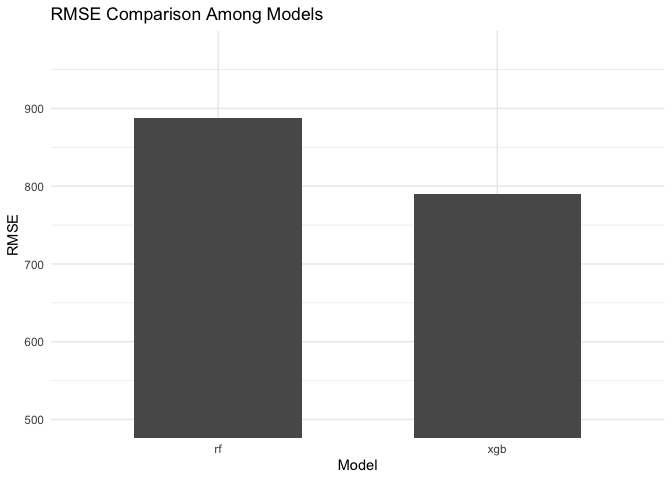
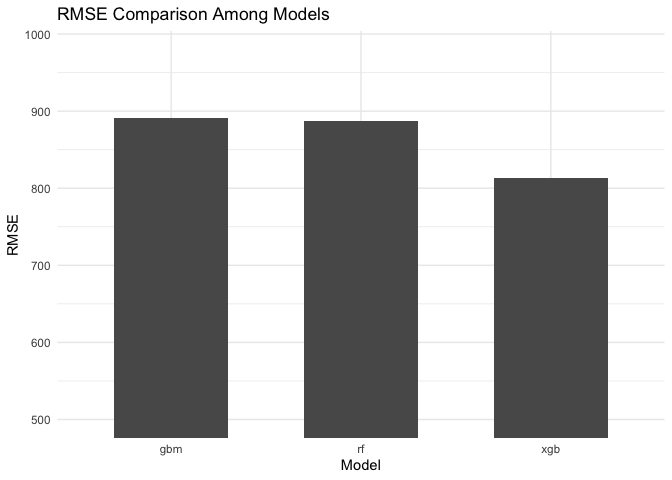
updated md

diff --git a/excersises03.md b/excersises03.md
@@ -139,16 +139,16 @@ k/lambda. We then calculate RSME for each model:
 <figcaption aria-hidden="true">Table 4</figcaption>
 </figure>
 
-We see that, unsurprisingly, random forest and xgboost do the best out
-of box. We now turn to tuning those models to determine which is best.
-We use intuition to tune the xgboost model: increasing to
-`max_depth = 8` to make the the model more complex and increasing number
-of trees to `nrounds = 10000` to improve performance. Our final model is
-xgboost.
+We see that, unsurprisingly, gbm, random forest and xgboost do the best
+out of box. We now turn to tuning those models to determine which is
+best. We use intuition and cross validation to tune each tree model. For
+xgboost, we increase to `max_depth = 8` to make the the model more
+complex and increase number of trees to `nrounds = 10000` to improve
+performance. Our final model is xgboost.
 
 ![](excersises03_files/figure-markdown_strict/unnamed-chunk-9-1.png)
 
-    ## xgboost rsme: 789.7363
+    ## xgboost rsme: 813.0357
 
 In order to answer our principal question of whether or not a ‘green
 rating’ has a significant effect on building revenue we calculate a
@@ -194,13 +194,12 @@ residuals) versus longitude (x) and latitude (y).*
 We first scale all data except the dependent variable and split the
 sample into train set and test set. Similar to last problem, we tried 6
 models to predict the value for the median house value: a baseline
-linear model, lasso model with 2nd order interaction terms, KNN model,
-Random Forest model, GBDT model and XGBoost model. We first run the
-linear models.
+linear model, lasso model with 2nd order interaction terms, Random
+Forest model, GBDT model and XGBoost model. We first run the linear
+models.
 
-Then we look at the KNN model and random forest model. We use CV to
-choose the best k for KNN model. For random forest model, we use 1000
-trees and choose mtry as default.
+Then we look at Random forest model. We use 1000 trees and choose mtry
+as default.
 
 We explore 2 boosted tree models here, GBDT and XGboost model. Starting
 with GBDT, we use CV to select the best interaction depth and shrinkage
@@ -217,7 +216,9 @@ Now we compare the out-of-sample performance for all these 6 models. The
 plot shows our XGBoost model have the lowest RMSE so we are going to use
 this model for the following figures.
 
-![](excersises03_files/figure-markdown_strict/unnamed-chunk-18-1.png)![](excersises03_files/figure-markdown_strict/unnamed-chunk-18-2.png)![](excersises03_files/figure-markdown_strict/unnamed-chunk-18-3.png)![](excersises03_files/figure-markdown_strict/unnamed-chunk-18-4.png)
+![](excersises03_files/figure-markdown_strict/unnamed-chunk-18-1.png)
+
+![](excersises03_files/figure-markdown_strict/unnamed-chunk-20-1.png)![](excersises03_files/figure-markdown_strict/unnamed-chunk-20-2.png)![](excersises03_files/figure-markdown_strict/unnamed-chunk-20-3.png)
 
 It appears as though our model is best able to predict average housing
 prices, and struggles to predict especially low and high prices in the
